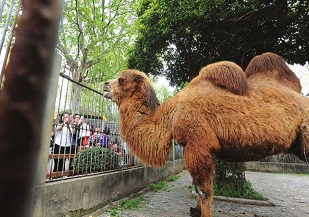
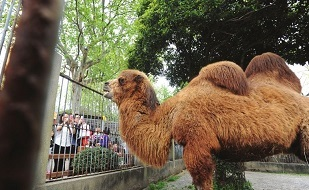
readme

diff --git a/README.md b/README.md
@@ -11,14 +11,14 @@ It is:
 Let's make it as simple as possible.
 This is model zoo—
 <center>
-<img src="./tutorials/camel_zoo.jpg" width="80%" height="55%" />
+<img src="./tutorials/camel_zoo.jpg" width="60%" height="35%" />
 </center>
 
 You still need to do a lot of thing before you use(eat) the model(camel).
 
 This is model feast—
 <center>
-<img src="./tutorials/camel.jpg" width="80%" height="55%" />
+<img src="./tutorials/camel.jpg" width="45%" height="30%" />
 </center>
 All you need it's to open your mouth and chew(train).
 It helps to save you time and workload a lot !
